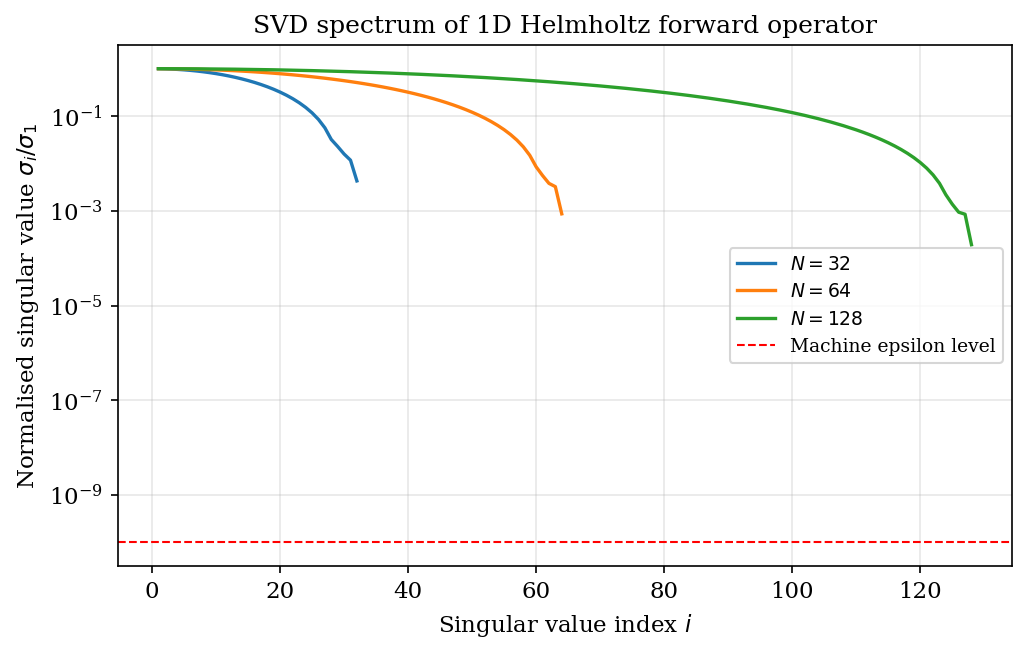
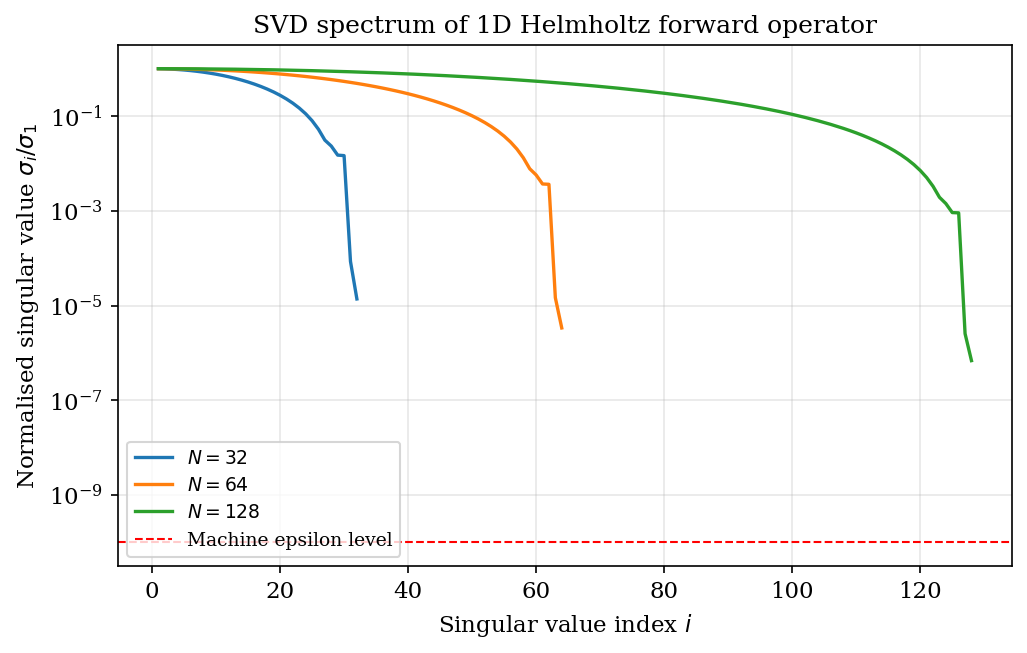
fix(inverse): Ch18 fig01/fig02 use Rust kernels, not numpy reimplementations
Ch18 fig01 computed the Helmholtz SVD spectrum with scipy, and fig02 solved the
Tikhonov normal equations in numpy and marked three hand-picked lambdas instead
of the documented L-curve corner — even though kw.matrix_singular_values,
kw.helmholtz_1d_fd_matrix, and kw.tikhonov_lcurve were already bound. They were
unreachable because the analytical::inverse functions were registered but never
re-exported from the pykwavers package.

- Bind l_curve_corner and morozov_lambda (kwavers_math::inverse_problems::
  parameter_selection) and register them.
- Re-export the inverse-problem surface (helmholtz_1d_fd_matrix,
  matrix_singular_values, tikhonov_lcurve, born_inversion_regularized,
  adjoint_gradient_convergence, l_curve_corner, morozov_lambda) from __init__
  (import list + __all__).
- fig01: build the Helmholtz matrix and singular values via the Rust kernels.
- fig02: compute the L-curve via kw.tikhonov_lcurve and mark the actual
  maximum-curvature corner via kw.l_curve_corner (§18.7) instead of arbitrary
  points; drop the unused scipy svd import.

Only synthetic fixtures + plotting remain in Python. Figures verified
(corner at the L-elbow, lambda=2.21e-04). parameter_selection tests (4) pass.

diff --git a/crates/kwavers-python/examples/book/ch17_inverse_problems_and_pinns.py b/crates/kwavers-python/examples/book/ch17_inverse_problems_and_pinns.py
@@ -26,7 +26,6 @@ from __future__ import annotations
 
 import os
 import numpy as np
-from scipy.linalg import svd
 import matplotlib
 
 matplotlib.use("Agg")
@@ -59,9 +58,13 @@ plt.rcParams.update({
 # ── Figure 01: SVD spectrum of discretised Helmholtz operator ─────────────────
 def fig01_svd_spectrum() -> None:
     """
-    1D Helmholtz operator: (d²/dx² + k²) discretised with second-order FD.
-    Singular values σ_i of the forward map G show rapid decay → ill-conditioning.
+    1D Helmholtz operator (d²/dx² + k²), second-order FD (Dirichlet BCs), built by
+    kw.helmholtz_1d_fd_matrix; its singular values via kw.matrix_singular_values
+    (Rust core). Their rapid decay → ill-conditioning. Physics is in the Rust
+    core; only the sweep over grid size N and plotting are in Python.
     """
+    if not _PYKWAVERS:
+        raise ImportError("pykwavers is required for fig01 (Helmholtz SVD spectrum)")
     N_arr = [32, 64, 128]
     k = 10.0  # wavenumber
 
@@ -69,17 +72,9 @@ def fig01_svd_spectrum() -> None:
     colors = ["#1f77b4", "#ff7f0e", "#2ca02c"]
     for N, col in zip(N_arr, colors):
         dx = 1.0 / N
-        # Second-order FD Helmholtz matrix (Dirichlet BCs)
-        diag = -2.0 / dx**2 + k**2
-        offdiag = 1.0 / dx**2
-        A = (
-            np.diag(diag * np.ones(N))
-            + np.diag(offdiag * np.ones(N - 1), 1)
-            + np.diag(offdiag * np.ones(N - 1), -1)
-        )
-        sv = svd(A, compute_uv=False)
-        sv_sorted = np.sort(np.abs(sv))[::-1]
-        sv_norm = sv_sorted / sv_sorted[0]
+        a = np.ascontiguousarray(kw.helmholtz_1d_fd_matrix(N, k, dx))
+        sv = np.asarray(kw.matrix_singular_values(a, N, N))  # sorted descending
+        sv_norm = sv / sv[0]
         idx = np.arange(1, len(sv_norm) + 1)
         ax.semilogy(idx, sv_norm, color=col, label=f"$N={N}$")
 
@@ -97,61 +92,50 @@ def fig01_svd_spectrum() -> None:
 # ── Figure 02: L-curve for Tikhonov regularization ───────────────────────────
 def fig02_lcurve() -> None:
     """
-    1D deconvolution: y = Ax + ε, where A is a Gaussian convolution matrix.
-    Tikhonov solution: x_λ = (A^T A + λI)^{-1} A^T y.
-    L-curve: ||Ax_λ - y|| vs ||x_λ|| as λ varies.
+    1D Gaussian-deconvolution test problem y = Ax + ε. The Tikhonov L-curve
+    (‖Ax_λ−y‖ vs ‖x_λ‖ over a λ sweep) is computed by kw.tikhonov_lcurve, and the
+    maximum-curvature corner (§18.7, Hansen 1992) by kw.l_curve_corner — both in
+    the Rust core. Only the synthetic A, x_true, y fixture and plotting are in
+    Python; no inversion or corner-finding is reimplemented here.
     """
+    if not _PYKWAVERS:
+        raise ImportError("pykwavers is required for fig02 (Tikhonov L-curve)")
     N = 64
     t = np.linspace(0, 1, N)
 
-    # Gaussian convolution kernel
+    # Synthetic ill-posed fixture: Gaussian convolution matrix + two-bump signal.
     sigma = 0.05
     A = np.exp(-0.5 * ((t[:, None] - t[None, :]) ** 2) / sigma**2) / (
         sigma * np.sqrt(2 * np.pi)
     )
     A /= N
-
-    # True signal: sum of Gaussians
     x_true = np.exp(-0.5 * ((t - 0.3) ** 2) / 0.01) + 0.7 * np.exp(
         -0.5 * ((t - 0.7) ** 2) / 0.01
     )
-
     rng = np.random.default_rng(42)
     y = A @ x_true + 0.01 * rng.standard_normal(N)
 
-    ATA = A.T @ A
-    ATy = A.T @ y
+    # Rust SSOT: the L-curve and its corner.
+    lambdas = np.ascontiguousarray(np.logspace(-6, 2, 100))
+    res_norms, sol_norms = kw.tikhonov_lcurve(
+        np.ascontiguousarray(A), np.ascontiguousarray(y), N, N, lambdas)
+    res_norms = np.asarray(res_norms)
+    sol_norms = np.asarray(sol_norms)
+    corner = kw.l_curve_corner(res_norms, sol_norms, lambdas)
 
-    lambdas = np.logspace(-6, 2, 100)
-    res_norms = []
-    sol_norms = []
-
-    for lam in lambdas:
-        x_lam = np.linalg.solve(ATA + lam * np.eye(N), ATy)
-        res_norms.append(np.linalg.norm(A @ x_lam - y))
-        sol_norms.append(np.linalg.norm(x_lam))
-
-    # L-curve corner (maximum curvature region)
     fig, ax = plt.subplots(figsize=(7, 5))
     ax.loglog(res_norms, sol_norms, "b-", linewidth=1.5)
-    # Mark a few lambda values
-    for idx, lam in [
-        (10, r"$\lambda=10^{-4}$"),
-        (50, r"$\lambda=10^{-1}$"),
-        (90, r"$\lambda=10^{1}$"),
-    ]:
-        ax.scatter(res_norms[idx], sol_norms[idx], s=80, color="r", zorder=5)
-        ax.annotate(
-            lam,
-            (res_norms[idx], sol_norms[idx]),
-            textcoords="offset points",
-            xytext=(5, 5),
-            fontsize=8,
-        )
+    if corner is not None:
+        ax.scatter(res_norms[corner], sol_norms[corner], s=110, color="r",
+                   zorder=5, label=rf"L-curve corner ($\lambda={lambdas[corner]:.2e}$)")
+        ax.annotate("corner", (res_norms[corner], sol_norms[corner]),
+                    textcoords="offset points", xytext=(8, 8), fontsize=9, color="r")
+        ax.legend()
 
     ax.set_xlabel(r"Residual norm $\|Ax_\lambda - y\|$")
     ax.set_ylabel(r"Solution norm $\|x_\lambda\|$")
-    ax.set_title("L-curve for Tikhonov regularization\n1D Gaussian deconvolution")
+    ax.set_title("L-curve for Tikhonov regularization (§18.7)\n"
+                 "1D Gaussian deconvolution; corner via kw.l_curve_corner")
     ax.grid(True, which="both", alpha=0.3)
     fig.tight_layout()
     savefig("fig02_lcurve")

diff --git a/crates/kwavers-python/src/analytical_bindings/inverse.rs b/crates/kwavers-python/src/analytical_bindings/inverse.rs
@@ -1,5 +1,7 @@
-//! PyO3 bindings for `kwavers_physics::analytical::inverse`.
+//! PyO3 bindings for `kwavers_physics::analytical::inverse` and
+//! `kwavers_math::inverse_problems::parameter_selection`.
 
+use kwavers_math::inverse_problems::parameter_selection;
 use kwavers_physics::analytical::inverse as inverse_mod;
 use ndarray::Array2;
 use numpy::{IntoPyArray, PyArray1, PyArray2, PyReadonlyArray1, PyReadonlyArray2};
@@ -155,4 +157,65 @@ pub fn adjoint_gradient_convergence(
 ) -> PyResult<Py<PyArray1<f64>>> {
     let result = inverse_mod::adjoint_gradient_convergence(n_iter, initial_error, decay);
     Ok(result.into_pyarray(py).unbind())
+}
+
+/// L-curve corner index (point of maximum curvature of the log–log
+/// residual-vs-model-norm trade-off, Hansen 1992; book §18.7). Returns the
+/// interior index of the maximum-curvature sample, or `None` if the inputs are
+/// too short (`n < 5`), mismatched, non-positive, or `lambdas` not increasing.
+///
+/// Args:
+///     residual_norms: ‖F(m_λ)−d‖ over the λ sweep.
+///     model_norms: ‖m_λ‖ over the λ sweep.
+///     lambdas: Regularization weights (strictly increasing, > 0).
+///
+/// Returns:
+///     Corner index (int) or None.
+#[pyfunction]
+#[pyo3(signature = (residual_norms, model_norms, lambdas))]
+pub fn l_curve_corner(
+    residual_norms: PyReadonlyArray1<f64>,
+    model_norms: PyReadonlyArray1<f64>,
+    lambdas: PyReadonlyArray1<f64>,
+) -> PyResult<Option<usize>> {
+    let r = residual_norms
+        .as_slice()
+        .map_err(|e| PyRuntimeError::new_err(e.to_string()))?;
+    let m = model_norms
+        .as_slice()
+        .map_err(|e| PyRuntimeError::new_err(e.to_string()))?;
+    let l = lambdas
+        .as_slice()
+        .map_err(|e| PyRuntimeError::new_err(e.to_string()))?;
+    Ok(parameter_selection::l_curve_corner(r, m, l))
+}
+
+/// Morozov discrepancy-principle regularization weight `λ*`: the `λ` at which the
+/// data-residual norm equals `τ·δ` (noise level `δ`, safety factor `τ ≥ 1`),
+/// found by linear interpolation (book §18.7). Returns `None` if `τ·δ` is outside
+/// the sampled residual range or the inputs are invalid.
+///
+/// Args:
+///     lambdas: Regularization weights over the sweep.
+///     residual_norms: ‖F(m_λ)−d‖ over the sweep (monotone non-decreasing).
+///     noise_level: Noise level δ.
+///     tau: Safety factor τ ≥ 1.
+///
+/// Returns:
+///     λ* (float) or None.
+#[pyfunction]
+#[pyo3(signature = (lambdas, residual_norms, noise_level, tau))]
+pub fn morozov_lambda(
+    lambdas: PyReadonlyArray1<f64>,
+    residual_norms: PyReadonlyArray1<f64>,
+    noise_level: f64,
+    tau: f64,
+) -> PyResult<Option<f64>> {
+    let l = lambdas
+        .as_slice()
+        .map_err(|e| PyRuntimeError::new_err(e.to_string()))?;
+    let r = residual_norms
+        .as_slice()
+        .map_err(|e| PyRuntimeError::new_err(e.to_string()))?;
+    Ok(parameter_selection::morozov_lambda(l, r, noise_level, tau))
 }

diff --git a/crates/kwavers-python/python/pykwavers/__init__.py b/crates/kwavers-python/python/pykwavers/__init__.py
@@ -260,6 +260,14 @@ from ._pykwavers import (
     run_theranostic_nonlinear_3d_from_ritk,
     resample_to_target_grid,
     kspace_line_recon,
+    # ── Inverse problems & regularisation (Ch18) ─────────────────────────────
+    helmholtz_1d_fd_matrix,
+    matrix_singular_values,
+    tikhonov_lcurve,
+    born_inversion_regularized,
+    adjoint_gradient_convergence,
+    l_curve_corner,
+    morozov_lambda,
     time_reversal_reconstruction,
     passive_acoustic_map_das,
     beamform_image_delay_and_sum,
@@ -596,6 +604,14 @@ __all__ = [
     "load_ct_nifti",
     "run_theranostic_inverse_from_ritk",
     "run_theranostic_nonlinear_3d_from_ritk",
+    # ── Inverse problems & regularisation (Ch18) ─────────────────────────────
+    "helmholtz_1d_fd_matrix",
+    "matrix_singular_values",
+    "tikhonov_lcurve",
+    "born_inversion_regularized",
+    "adjoint_gradient_convergence",
+    "l_curve_corner",
+    "morozov_lambda",
     "run_transcranial_fus_planning_from_ritk_ct",
     "run_transcranial_skull_adaptive_benchmark_from_ritk_ct",
     "ali_2025_breast_fwi_frequency_sweep_hz",

diff --git a/crates/kwavers-python/src/analytical_bindings.rs b/crates/kwavers-python/src/analytical_bindings.rs
@@ -431,6 +431,8 @@ pub fn register_book(m: &Bound<'_, PyModule>) -> PyResult<()> {
     m.add_function(wrap_pyfunction!(inverse::tikhonov_lcurve, m)?)?;
     m.add_function(wrap_pyfunction!(inverse::born_inversion_regularized, m)?)?;
     m.add_function(wrap_pyfunction!(inverse::adjoint_gradient_convergence, m)?)?;
+    m.add_function(wrap_pyfunction!(inverse::l_curve_corner, m)?)?;
+    m.add_function(wrap_pyfunction!(inverse::morozov_lambda, m)?)?;
     // sonogenetics
     m.add_function(wrap_pyfunction!(
         sonogenetics::hill_activation_probability,